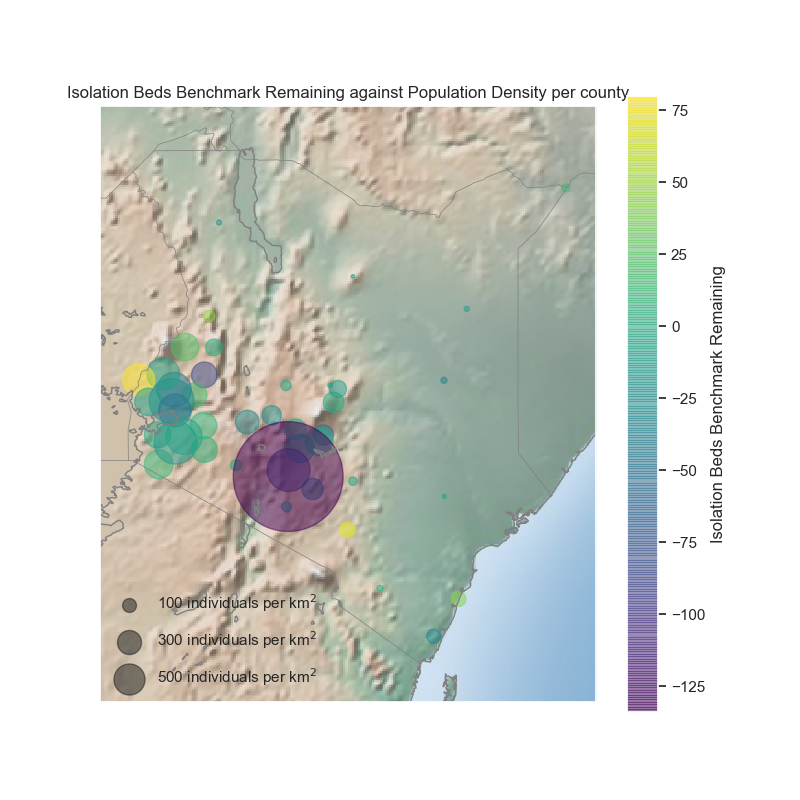
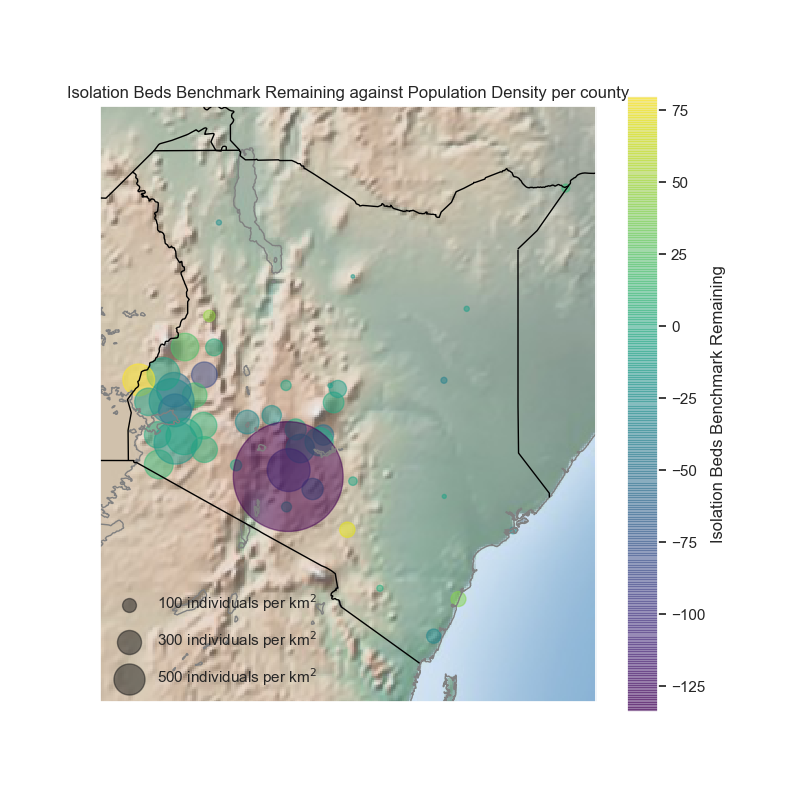
Increased line width in image plots

diff --git a/kenya_covid_visualizations.py b/kenya_covid_visualizations.py
@@ -36,7 +36,7 @@ def draw_map(lons, lats, pop_density, var_tested, colorbar_label, directory="", 
     , height=1.2E6, resolution='h')
     m.shadedrelief()
     m.drawcoastlines(color='gray')
-    m.drawcountries(color='gray')
+    m.drawcountries(color='black', linewidth=1.0)
     # m.fillcontinents(lake_color="aqua", zorder=0)
 
     # Draw scatterplot on the Basemap figure and include colorbar, legend
